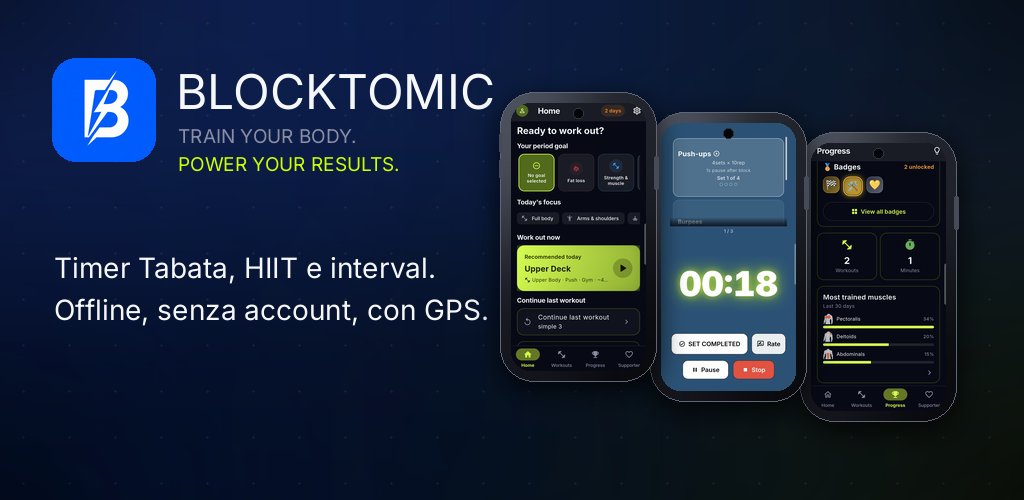
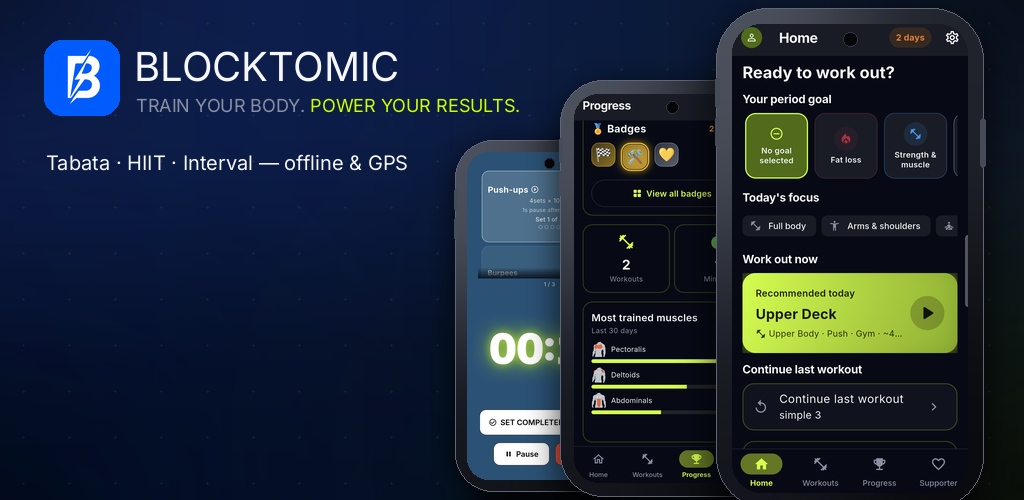
feat: add feature graphic section and update image for Play Store

diff --git a/screenshots/README.md b/screenshots/README.md
@@ -142,6 +142,22 @@ Le headline si modificano in `scripts/store_render/copy_it.json` e `copy_en.json
 La variante `--clean` (senza headline) finisce in `play_store/clean/01…08.png` ed è
 usata dalla sezione screenshot di `index.html`.
 
+### Feature graphic (1024×500)
+Generata da `make_feature_graphic()` dello stesso script in
+`play_store/feature_graphic_1024x500.png` (RGB senza alpha). Composizione:
+sfondo brand blu/lime, logo + `BLOCKTOMIC` + tagline in alto a sinistra, e tre
+telefoni a ventaglio con la **schermata Home in risalto**:
+
+| Ruolo | Screenshot | Posizione (x, y) |
+|---|---|---|
+| Dietro | `03_timer_running` | (455, 140) |
+| Secondo | `05_progress_badges` | (560, 80) |
+| **Hero (fronte)** | `01_workout_library` | (716, 8) |
+
+L'ordine dei file è `[03, 05, 01]`: l'ultimo è l'hero. Per cambiare l'immagine in
+risalto riordinare `feature_shots` in `main()`. Rigenerare solo la graphic:
+`python3 scripts/process_store_screenshots.py --feature-only`.
+
 ### Dopo la cattura
 1. Allineate le didascalie in `docs/PLAY_STORE_LISTING.md` e `docs/STORE_TEXT_8_LANG.md`.
 2. Caricate gli 8 PNG su **Play Console**, abbinandoli alle caption per lingua.
